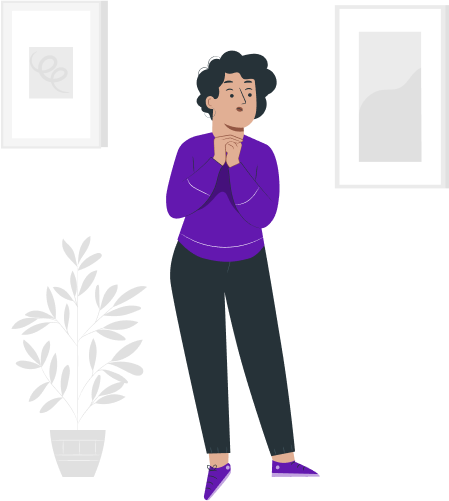
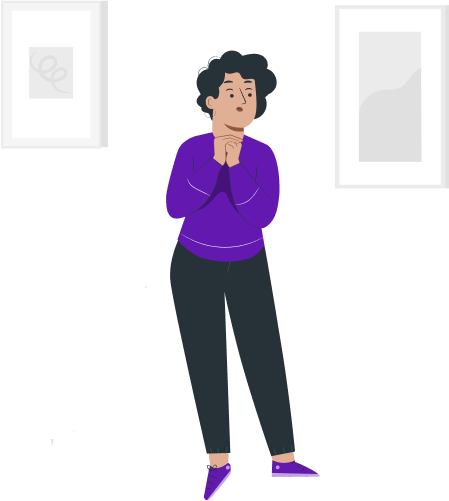
added animations

Changed region(s): [[0.0312, 0.479, 0.3118, 0.9581]]

diff --git a/lib/pages/tab2.dart b/lib/pages/tab2.dart
@@ -13,6 +13,7 @@ class Tab2 extends StatelessWidget {
         children: [
           Stack(
             children: [
+              const AnimatedGamla(),
               Container(
                 height: 300,
                 width: 300,
@@ -22,7 +23,42 @@ class Tab2 extends StatelessWidget {
                   ),
                 ),
               ),
-              const Sandwich()
+              const AnimatedFoodLeft(
+                  path: "assets/food/sandwich.png",
+                  topStart: 100,
+                  topEnd: 130,
+                  leftStart: 70,
+                  leftEnd: 50),
+              const AnimatedFoodLeft(
+                  path: "assets/food/donut.png",
+                  topStart: 60,
+                  topEnd: 70,
+                  leftStart: 50,
+                  leftEnd: 10),
+              const AnimatedFoodLeft(
+                  path: "assets/food/burger.png",
+                  topStart: 15,
+                  topEnd: 0,
+                  leftStart: 80,
+                  leftEnd: 50),
+              const AnimatedFoodRight(
+                  path: "assets/food/salad.png",
+                  topStart: 15,
+                  topEnd: 0,
+                  rightStart: 80,
+                  rightEnd: 50),
+              const AnimatedFoodRight(
+                  path: "assets/food/aple.png",
+                  topStart: 60,
+                  topEnd: 70,
+                  rightStart: 50,
+                  rightEnd: 10),
+              const AnimatedFoodRight(
+                  path: "assets/food/fish.png",
+                  topStart: 100,
+                  topEnd: 130,
+                  rightStart: 70,
+                  rightEnd: 50),
             ],
           ),
           const SizedBox(
@@ -52,19 +88,73 @@ class Tab2 extends StatelessWidget {
   }
 }
 
-class Sandwich extends StatefulWidget {
-  const Sandwich({
+class AnimatedGamla extends StatefulWidget {
+  const AnimatedGamla({
     super.key,
   });
 
   @override
-  State<Sandwich> createState() => _SandwichState();
+  State<AnimatedGamla> createState() => _AnimatedGamlaState();
 }
 
-class _SandwichState extends State<Sandwich> {
-  bool finished = false;
-  void Animate() {
-    Timer.periodic(const Duration(seconds: 1), (timer) {
+class _AnimatedGamlaState extends State<AnimatedGamla> {
+  late Timer _timer;
+  bool left = true;
+  @override
+  void initState() {
+    super.initState();
+    _timer = Timer.periodic(const Duration(seconds: 1), (timer) {
+      setState(() {
+        left = !left;
+      });
+    });
+  }
+
+  @override
+  void dispose() {
+    _timer.cancel();
+    super.dispose();
+  }
+
+  @override
+  Widget build(BuildContext context) {
+    return AnimatedPositioned(
+        duration: const Duration(milliseconds: 500),
+        bottom: 0,
+        curve: Curves.easeIn,
+        left: left ? 0 : 220,
+        child: const SizedBox(
+          height: 150,
+          width: 80,
+          child: Image(image: AssetImage("assets/images/gamla1.png")),
+        ));
+  }
+}
+
+class AnimatedFoodLeft extends StatefulWidget {
+  const AnimatedFoodLeft({
+    super.key,
+    required this.path,
+    required this.topStart,
+    required this.topEnd,
+    required this.leftStart,
+    required this.leftEnd,
+  });
+  final String path;
+  final double topStart, topEnd, leftStart, leftEnd;
+
+  @override
+  State<AnimatedFoodLeft> createState() => _AnimatedFoodLeftState();
+}
+
+class _AnimatedFoodLeftState extends State<AnimatedFoodLeft> {
+  bool finished = true;
+  late Timer _timer;
+
+  @override
+  void initState() {
+    super.initState();
+    _timer = Timer.periodic(const Duration(seconds: 1), (timer) {
       setState(() {
         finished = !finished;
       });
@@ -72,22 +162,77 @@ class _SandwichState extends State<Sandwich> {
   }
 
   @override
-  void initState() {
-    super.initState();
-    Animate();
+  void dispose() {
+    _timer.cancel();
+    super.dispose();
   }
 
   @override
   Widget build(BuildContext context) {
     return AnimatedPositioned(
       duration: const Duration(milliseconds: 500),
-      top: finished ? 70 : 90,
-      left: finished ? 60 : 20,
-      child: const SizedBox(
+      curve: Curves.easeIn,
+      top: finished ? widget.topStart : widget.topEnd,
+      left: finished ? widget.leftStart : widget.leftEnd,
+      child: SizedBox(
         height: 40,
         width: 40,
         child: Image(
-          image: AssetImage("assets/food/sandwich.png"),
+          image: AssetImage(widget.path),
+        ),
+      ),
+    );
+  }
+}
+
+class AnimatedFoodRight extends StatefulWidget {
+  const AnimatedFoodRight({
+    super.key,
+    required this.path,
+    required this.topStart,
+    required this.topEnd,
+    required this.rightStart,
+    required this.rightEnd,
+  });
+  final String path;
+  final double topStart, topEnd, rightStart, rightEnd;
+
+  @override
+  State<AnimatedFoodRight> createState() => _AnimatedFoodRightState();
+}
+
+class _AnimatedFoodRightState extends State<AnimatedFoodRight> {
+  bool finished = true;
+  late Timer _timer;
+
+  @override
+  void initState() {
+    super.initState();
+    _timer = Timer.periodic(const Duration(seconds: 1), (timer) {
+      setState(() {
+        finished = !finished;
+      });
+    });
+  }
+
+  @override
+  void dispose() {
+    _timer.cancel();
+    super.dispose();
+  }
+
+  @override
+  Widget build(BuildContext context) {
+    return AnimatedPositioned(
+      duration: const Duration(milliseconds: 500),
+      curve: Curves.easeIn,
+      top: finished ? widget.topStart : widget.topEnd,
+      right: finished ? widget.rightStart : widget.rightEnd,
+      child: SizedBox(
+        height: 40,
+        width: 40,
+        child: Image(
+          image: AssetImage(widget.path),
         ),
       ),
     );

diff --git a/lib/pages/walkthrough_page.dart b/lib/pages/walkthrough_page.dart
@@ -2,6 +2,7 @@ import 'package:dsigma/pages/tab1.dart';
 import 'package:dsigma/pages/tab2.dart';
 import 'package:dsigma/pages/tab3.dart';
 import 'package:flutter/material.dart';
+import 'package:flutter/services.dart';
 import 'package:smooth_page_indicator/smooth_page_indicator.dart';
 
 class WalkThroughScreen extends StatelessWidget {
@@ -66,21 +67,108 @@ class WalkThroughScreen extends StatelessWidget {
                       dotColor: Color(0xFFE0D4EC)),
                 ),
               ),
-              GestureDetector(
-                child: const CircleAvatar(
-                  radius: 30,
-                  backgroundColor: Color(0xFF6318AF),
-                  child: Icon(
-                    Icons.arrow_forward,
-                    color: Colors.white,
-                  ),
-                ),
-              ),
+              BottomButton(controller: controller),
               const SizedBox(
-                height: 80,
+                height: 40,
               ),
             ],
           ),
+        ),
+      ),
+    );
+  }
+}
+
+class BottomButton extends StatefulWidget {
+  const BottomButton({
+    super.key,
+    required this.controller,
+  });
+
+  final PageController controller;
+
+  @override
+  State<BottomButton> createState() => _BottomButtonState();
+}
+
+class _BottomButtonState extends State<BottomButton> {
+  bool _expanded = false;
+  bool _text = false;
+  @override
+  void initState() {
+    super.initState();
+    widget.controller.addListener(_animate);
+  }
+
+  @override
+  void dispose() {
+    widget.controller.removeListener(_animate);
+    super.dispose();
+  }
+
+  void _animate() {
+    if (widget.controller.page == 2) {
+      setState(() {
+        _expanded = true;
+        Future.delayed(
+          const Duration(seconds: 1),
+          () {
+            setState(() {
+              _text = true;
+            });
+          },
+        );
+      });
+    } else {
+      setState(() {
+        _text = false;
+        _expanded = false;
+      });
+    }
+  }
+
+  @override
+  Widget build(BuildContext context) {
+    return GestureDetector(
+      onTap: () {
+        HapticFeedback.vibrate();
+        widget.controller.nextPage(
+            duration: const Duration(milliseconds: 500), curve: Curves.easeIn);
+      },
+      child: Container(
+        decoration: BoxDecoration(
+          color: const Color(0xFFE0D4EC),
+          borderRadius: BorderRadius.circular(40),
+        ),
+        child: Row(
+          mainAxisSize: MainAxisSize.min,
+          children: [
+            AnimatedContainer(
+              width: _expanded ? 140 : 0,
+              duration: const Duration(seconds: 1),
+              curve: Curves.easeOut,
+              child: _text
+                  ? Center(
+                      child: Text(
+                      "Get Started",
+                      style: Theme.of(context).textTheme.bodyLarge!.copyWith(
+                          color: const Color(0xFF6318AF),
+                          fontWeight: FontWeight.bold),
+                    ))
+                  : null,
+            ),
+            const Padding(
+              padding: EdgeInsets.all(8.0),
+              child: CircleAvatar(
+                radius: 30,
+                backgroundColor: Color(0xFF6318AF),
+                child: Icon(
+                  Icons.arrow_forward,
+                  color: Colors.white,
+                ),
+              ),
+            ),
+          ],
         ),
       ),
     );
